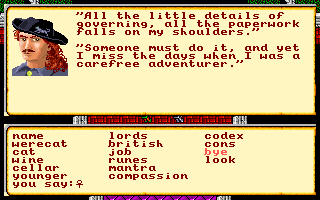
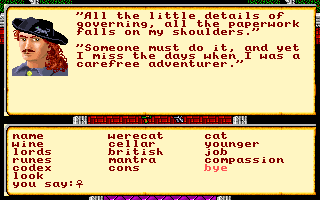
game: the conversation topics scroll (wheel, arrow keys) with marks for more

diff --git a/internal/game/layout.go b/internal/game/layout.go
@@ -2,7 +2,6 @@ package game
 
 import (
 	"image"
-	"slices"
 	"strings"
 
 	"github.com/memmaker/u6-go/internal/host"
@@ -39,13 +38,15 @@ const (
 	portraitRows    = portraitHeight / cellSize
 	// the clip of the conversation options, in character cells, and how they are laid out:
 	// the row after the options is where the player types
-	clipOptions     = 2
-	optionsX0       = speechX0
-	optionsY0       = speechY0 + speechRows + 1
-	optionsColumns  = 3
-	optionWidth     = 12 // characters per option column
-	optionsRows     = 6
-	optionsShownMax = optionsColumns * optionsRows
+	clipOptions    = 2
+	optionsX0      = speechX0
+	optionsY0      = speechY0 + speechRows + 1
+	optionsColumns = 3
+	optionWidth    = 12 // characters per option column
+	optionsRows    = 6
+	// the marks of more options above or below, in the column right of the options
+	moreAboveChar, moreBelowChar = 24, 25
+	moreColumn                   = optionsX0 + optionsColumns*optionWidth
 
 	// margin is the room left around panels and between them and the screen's edges
 	margin = 4
@@ -107,6 +108,7 @@ type layout struct {
 	// highlighted; optionPicked is set by a click on one
 	talkOptions  []string
 	talkChoice   int
+	talkTop      int // the first row of options shown; they scroll
 	optionPicked bool
 }
 
@@ -253,6 +255,7 @@ func (g *Game) pointAt(x, y int) (int, int, bool) {
 		if pt := image.Pt(x, y); pt.In(p.onScreen()) {
 			at := pt.Sub(p.at).Add(p.from.Min)
 			if p.from == optionsPanel {
+				g.scrollOptions(-host.TakeWheel())
 				g.pointOption(at, host.MouseLeft && !g.mouse.left)
 			}
 			return at.X, at.Y, true
@@ -264,8 +267,8 @@ func (g *Game) pointAt(x, y int) (int, int, bool) {
 // pointOption highlights the option at canvas point at, and picks it on a click.
 func (g *Game) pointOption(at image.Point, clicked bool) {
 	column, row := (at.X-optionsList.Min.X)/(optionWidth*cellSize), (at.Y-optionsList.Min.Y)/cellSize
-	i := column*optionsRows + row
-	if row >= optionsRows || i >= len(g.talkOptions) {
+	i := (g.talkTop+row)*optionsColumns + column
+	if row >= optionsRows || column >= optionsColumns || i >= len(g.talkOptions) {
 		return
 	}
 	if i != g.talkChoice {
@@ -434,12 +437,6 @@ func (g *Game) conversationKeywords() []string {
 // offerOptions shows the keywords the script answers now, "bye" highlighted.
 func (g *Game) offerOptions() {
 	g.talkOptions = g.conversationKeywords()
-	if len(g.talkOptions) > optionsShownMax {
-		g.talkOptions = g.talkOptions[:optionsShownMax]
-		if !slices.Contains(g.talkOptions, "bye") {
-			g.talkOptions[optionsShownMax-1] = "bye"
-		}
-	}
 	for i, w := range g.talkOptions {
 		g.talkOptions[i] = g.topicWord(w)
 	}
@@ -449,24 +446,57 @@ func (g *Game) offerOptions() {
 			g.talkChoice = i
 		}
 	}
+	g.talkTop = 0
+	g.chooseOption(g.talkChoice)
+}
+
+// optionRows is how many rows the options take.
+func (g *Game) optionRows() int {
+	return (len(g.talkOptions) + optionsColumns - 1) / optionsColumns
+}
+
+// chooseOption highlights option i (kept within the options), scrolling it into view.
+func (g *Game) chooseOption(i int) {
+	g.talkChoice = min(max(i, 0), len(g.talkOptions)-1)
+	row := g.talkChoice / optionsColumns
+	g.talkTop = min(g.talkTop, row)
+	g.talkTop = max(g.talkTop, row-optionsRows+1)
 	g.drawTalkOptions()
 }
 
-// drawTalkOptions writes the options on the canvas in columns, the chosen one highlighted.
+// scrollOptions scrolls the options by rows (negative: up).
+func (g *Game) scrollOptions(rows int) {
+	if rows == 0 {
+		return
+	}
+	g.talkTop = min(max(g.talkTop+rows, 0), max(g.optionRows()-optionsRows, 0))
+	g.drawTalkOptions()
+}
+
+// drawTalkOptions writes the shown rows of options on the canvas, the chosen one
+// highlighted, and marks more rows above or below.
 func (g *Game) drawTalkOptions() {
 	saved := g.current
 	g.current = &g.clips[clipOptions]
 	g.gr.SetColor(g.colours.background)
 	g.gr.FillRect(optionsList.Min.X, optionsList.Min.Y, optionsList.Max.X-1, optionsList.Max.Y-1)
-	for i, w := range g.talkOptions {
+	first := g.talkTop * optionsColumns
+	for i, w := range g.talkOptions[first:min(len(g.talkOptions), first+optionsRows*optionsColumns)] {
 		g.current.fg = g.colours.text
-		if i == g.talkChoice {
+		if first+i == g.talkChoice {
 			g.current.fg = g.colours.highlight
 		}
-		x, y := optionsX0+i/optionsRows*optionWidth, optionsY0+i%optionsRows
+		x, y := optionsX0+i%optionsColumns*optionWidth, optionsY0+i/optionsColumns
 		for j := range min(len(w), optionWidth-1) {
 			g.putCharAt(w[j], x+j, y)
 		}
+	}
+	g.current.fg = g.colours.text
+	if g.talkTop > 0 {
+		g.putCharAt(moreAboveChar, moreColumn, optionsY0)
+	}
+	if g.talkTop+optionsRows < g.optionRows() {
+		g.putCharAt(moreBelowChar, moreColumn, optionsY0+optionsRows-1)
 	}
 	g.current = saved
 }

diff --git a/internal/host/input.go b/internal/host/input.go
@@ -98,6 +98,20 @@ var (
 	MouseLeft, MouseRight bool
 )
 
+// wheelRows are the mouse wheel's rows not yet taken (positive: up), wheelFraction the
+// part of a row turned.
+var (
+	wheelRows     int
+	wheelFraction float64
+)
+
+// TakeWheel returns how many rows the mouse wheel turned (positive: up) since the last call.
+func TakeWheel() int {
+	rows := wheelRows
+	wheelRows = 0
+	return rows
+}
+
 // The captured mouse: its position with fractions, the host position last tick, and the
 // ticks to ignore after locking.
 var (
@@ -164,6 +178,10 @@ func pollInput(g *game) {
 		MouseX, MouseY = int(mouseFX), int(mouseFY)
 	}
 	lastX, lastY = x, y
+	_, wheel := ebiten.Wheel()
+	wheelFraction += wheel
+	wheelRows += int(wheelFraction)
+	wheelFraction -= float64(int(wheelFraction))
 	MouseLeft = ebiten.IsMouseButtonPressed(ebiten.MouseButtonLeft)
 	MouseRight = ebiten.IsMouseButtonPressed(ebiten.MouseButtonRight)
 	if swallowClick {

diff --git a/internal/game/console.go b/internal/game/console.go
@@ -602,14 +602,14 @@ func (g *Game) gets(maxLen int) string {
 			}
 		}
 		switch {
-		case (ch == keyUp || ch == keyDown) && len(g.talkOptions) > 0:
-			step := 1
-			if ch == keyUp {
-				step = -1
-			}
-			shown := min(len(g.talkOptions), optionsShownMax)
-			g.talkChoice = (g.talkChoice + step + shown) % shown
-			g.drawTalkOptions()
+		case ch == keyUp && len(g.talkOptions) > 0:
+			g.chooseOption(g.talkChoice - optionsColumns)
+		case ch == keyDown && len(g.talkOptions) > 0:
+			g.chooseOption(g.talkChoice + optionsColumns)
+		case ch == keyLeft && len(g.talkOptions) > 0:
+			g.chooseOption(g.talkChoice - 1)
+		case ch == keyRight && len(g.talkOptions) > 0:
+			g.chooseOption(g.talkChoice + 1)
 		case ch == '\r':
 			if len(typed) == 0 && len(g.talkOptions) > 0 {
 				typed = []byte(g.talkOptions[g.talkChoice])

diff --git a/PORTING.md b/PORTING.md
@@ -39,4 +39,4 @@ The world view fills the screen; the panels are layered over it as scrolls
 - Ctrl+D shows or hides the date and wind scroll.
 - Ctrl+L shows or hides the message log. Prompts show it while they wait.
 - Touching the bottom edge with the mouse slides in the command icons.
-- In conversations, Up/Down pick a topic and Enter asks it; typing still works.
+- In conversations, the arrow keys pick a topic (the mouse wheel and Up/Down scroll a long list) and Enter asks it; typing still works.
